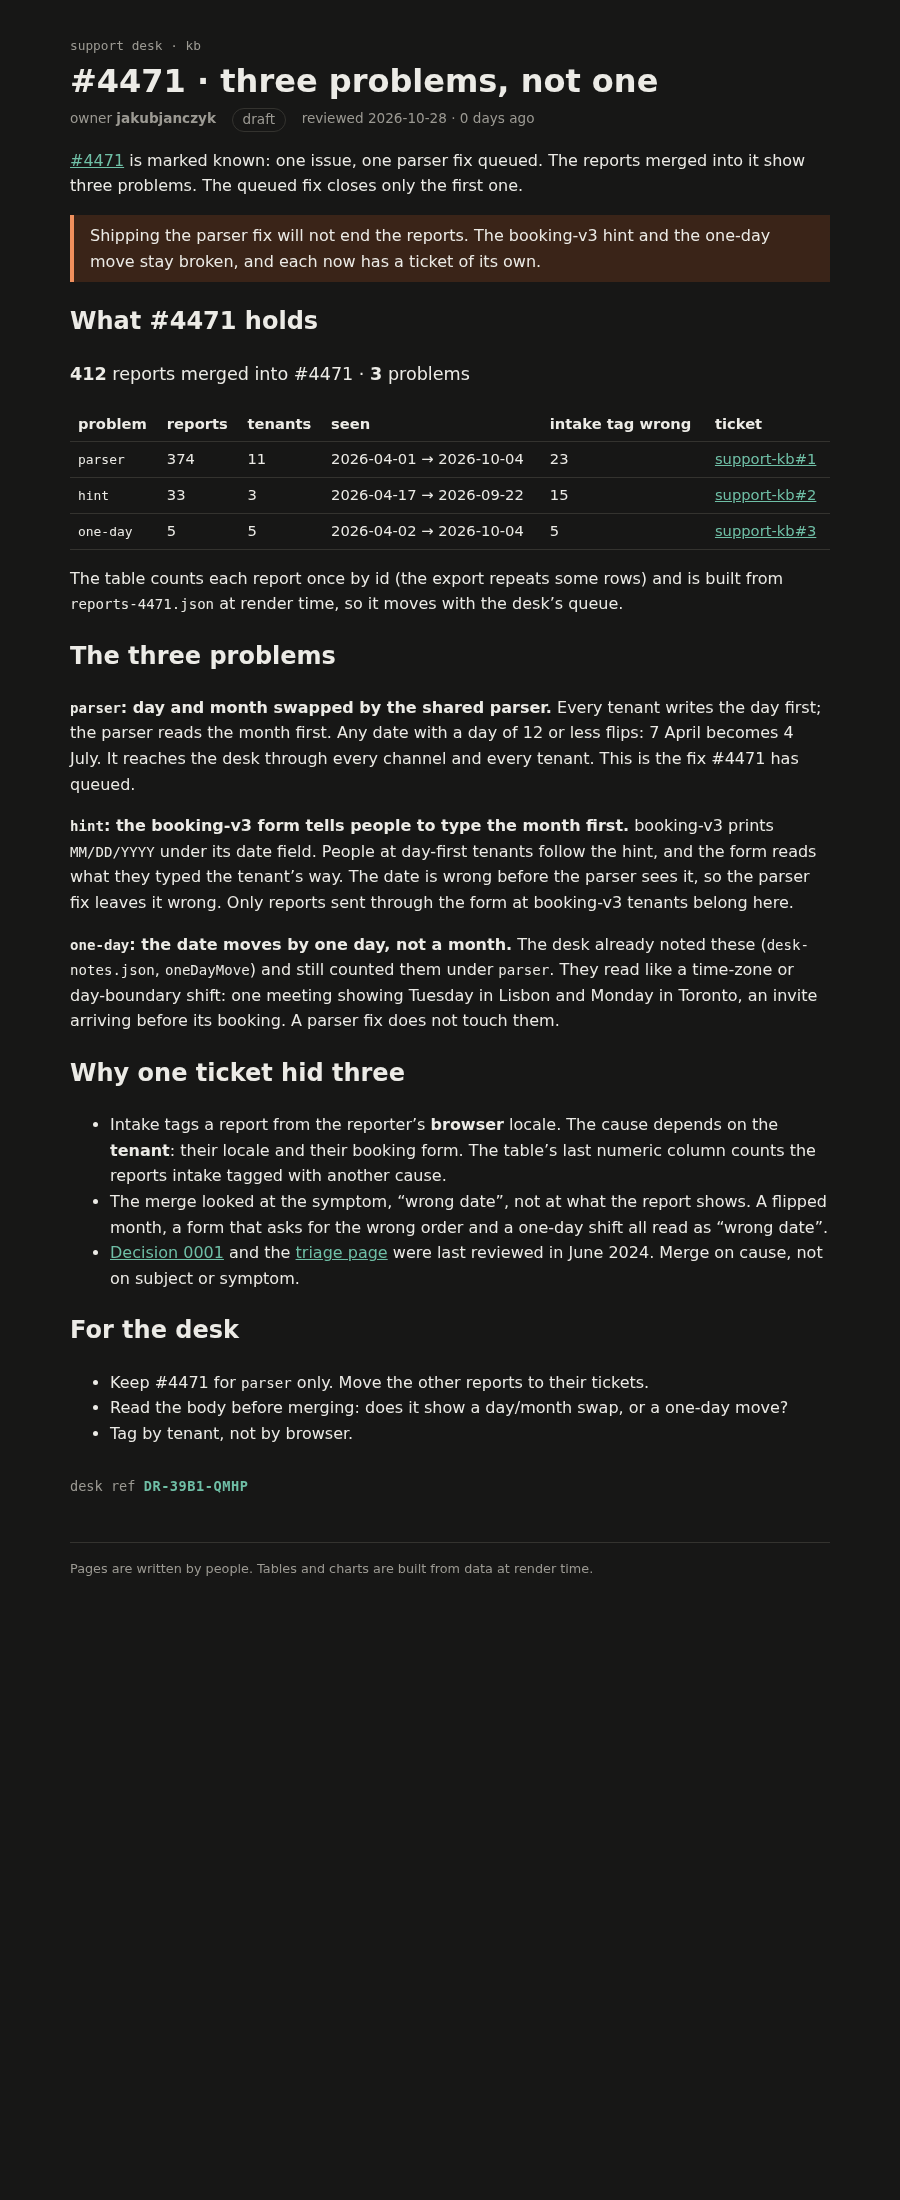
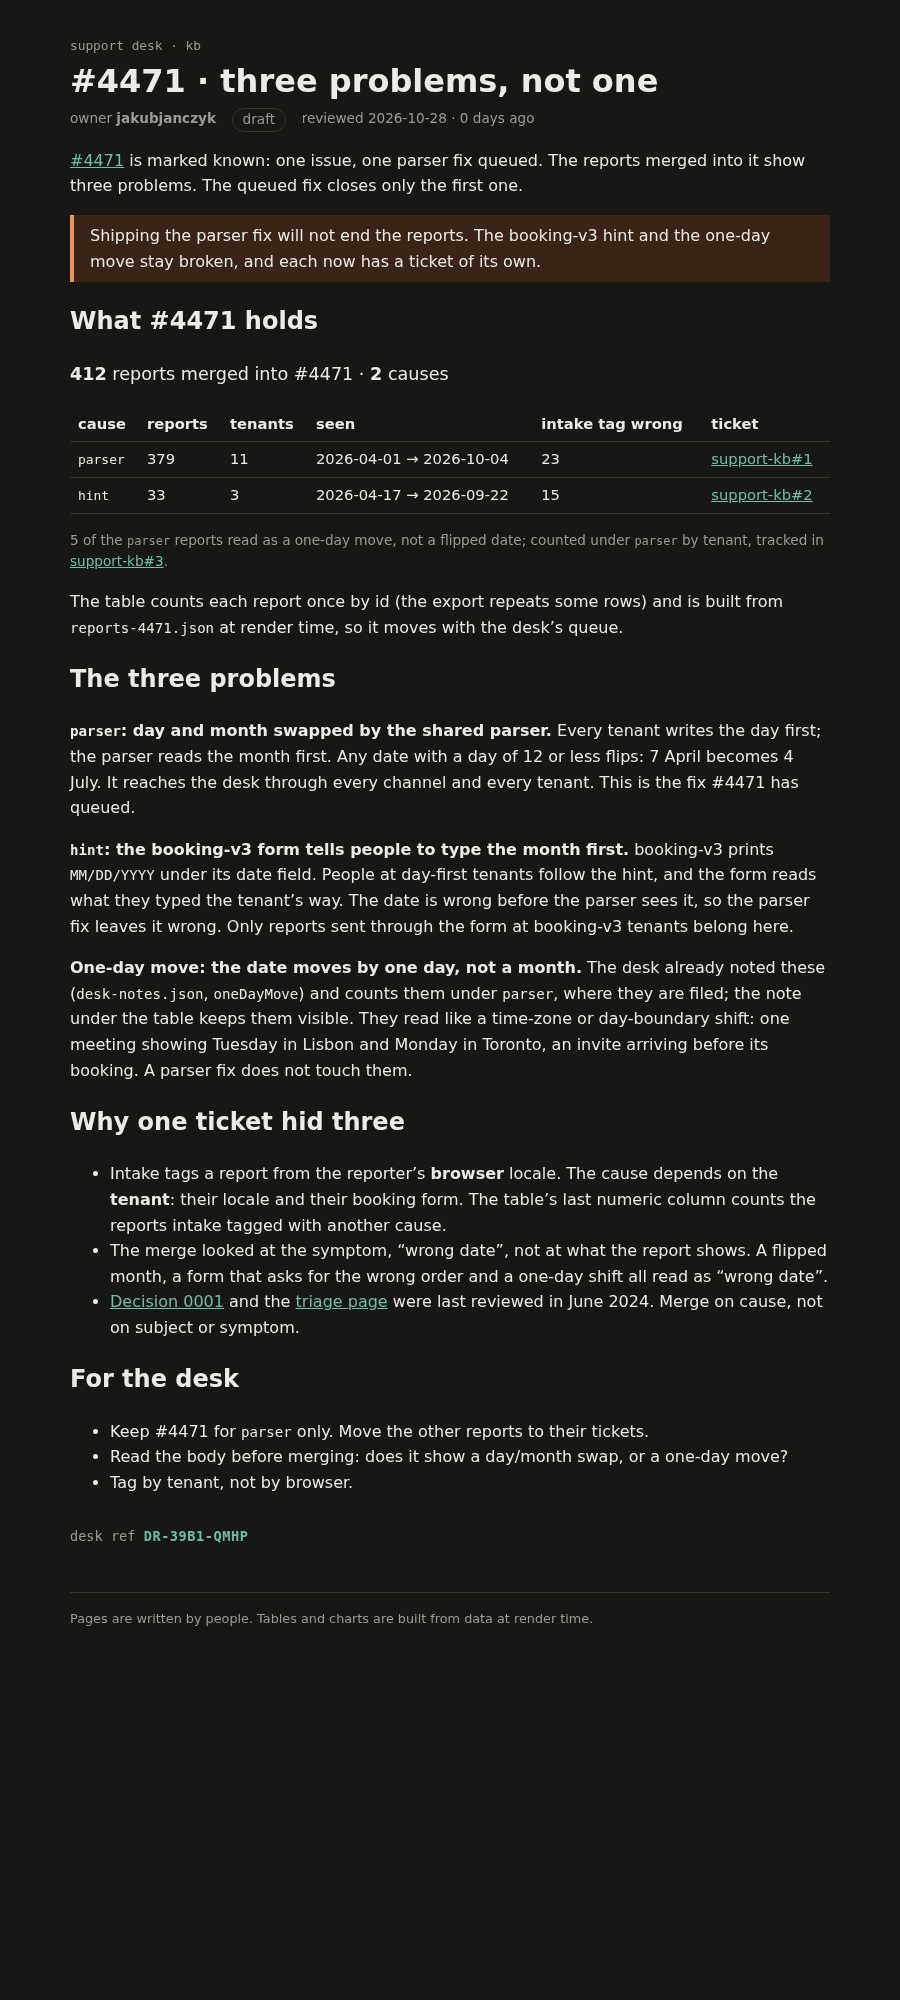
Count #4471 the desk's way on the kb page
ProblemTable now groups by causes.ts like the desk's CauseTable: parser 379,
hint 33. The 5 one-day reports stay under parser as a note linking #3.

Changed region(s): [[0.0622, 0.031, 0.9333, 0.744]]

diff --git a/src/lib/kb/ProblemTable.svelte b/src/lib/kb/ProblemTable.svelte
@@ -3,11 +3,11 @@
   import notes from '#lib/data/desk-notes.json';
   import { type Report } from '#lib/kb/causes';
   import { tenantOf } from '#lib/kb/locales';
-  import { groupByProblem, mergedInto, type Problem } from '#lib/kb/problems';
+  import { groupByProblem, mergedInto } from '#lib/kb/problems';
 
-  // tickets: problem → the ticket that now owns it, e.g. { parser: { label: 'support-kb#1', href: '…' } }
-  let { ticket, tickets }: { ticket: number; tickets: Partial<Record<Problem, { label: string; href: string }>> } =
-    $props();
+  type Link = { label: string; href: string };
+  // tickets: cause → the ticket that now owns it; oneDay: the ticket for the one-day move.
+  let { ticket, tickets, oneDay }: { ticket: number; tickets: Record<string, Link>; oneDay?: Link } = $props();
 
   const merged = $derived(mergedInto(reports as Report[], ticket));
   const groups = $derived(groupByProblem(merged, tenantOf, notes.oneDayMove));
@@ -16,19 +16,19 @@
 <p class="sum">
   <strong>{merged.length}</strong> reports merged into #{ticket} ·
   <strong>{groups.length}</strong>
-  {groups.length === 1 ? 'problem' : 'problems'}
+  {groups.length === 1 ? 'cause' : 'causes'}
 </p>
 
 <table>
   <thead>
-    <tr><th>problem</th><th>reports</th><th>tenants</th><th>seen</th><th>intake tag wrong</th><th>ticket</th></tr>
+    <tr><th>cause</th><th>reports</th><th>tenants</th><th>seen</th><th>intake tag wrong</th><th>ticket</th></tr>
   </thead>
   <tbody>
-    {#each groups as g (g.problem)}
-      {@const t = tickets[g.problem]}
+    {#each groups as g (g.cause)}
+      {@const t = tickets[g.cause]}
       <tr class:open={!t}>
-        <td><code>{g.problem}</code></td>
-        <td>{g.count}</td>
+        <td><code>{g.cause}</code></td>
+        <td>{g.reports.length}</td>
         <td>{g.tenants}</td>
         <td>{g.firstSeen} → {g.lastSeen}</td>
         <td>{g.mistagged}</td>
@@ -38,8 +38,18 @@
   </tbody>
 </table>
 
+{#each groups as g (g.cause)}
+  {#if g.oneDay}
+    <p class="note">
+      {g.oneDay} of the <code>{g.cause}</code> reports read as a one-day move, not a flipped date; counted under
+      <code>{g.cause}</code> by tenant{#if oneDay}, tracked in <a href={oneDay.href}>{oneDay.label}</a>{/if}.
+    </p>
+  {/if}
+{/each}
+
 <style>
   .sum { font-size: 1.1rem; }
+  .note { color: var(--muted); font-size: 0.85em; }
   .open td { background: var(--warn-bg); }
   .open td:last-child { color: var(--warn); font-weight: 600; }
 </style>

diff --git a/src/lib/kb/problems.ts b/src/lib/kb/problems.ts
@@ -1,23 +1,13 @@
-// The problems inside a merged ticket. causes.ts says which cause a report's tenant points to;
-// a report the desk read as a one-day move (desk-notes.json) is not a flipped date at all,
-// so it is its own problem whatever its tenant says.
-import { causeOf, uniqueById, type Report, type Tenant } from '#lib/kb/causes';
+// The problems inside a merged ticket, counted the way the desk counts (causes.ts): every report
+// under the cause its tenant points to. Reports the desk read as a one-day move (desk-notes.json)
+// stay counted where they are filed; they are a problem of their own, footnoted under that cause.
+import { groupByCause, readAs, uniqueById, type CauseGroup, type Report, type Tenant } from '#lib/kb/causes';
 
-export type Problem = 'parser' | 'hint' | 'one-day' | 'unplaced';
-
-export function problemOf(r: Report, t: Tenant | undefined, oneDayMove: readonly string[]): Problem {
-  if (oneDayMove.includes(r.id)) return 'one-day';
-  return causeOf(r, t) ?? 'unplaced';
-}
-
-export type ProblemGroup = {
-  problem: Problem;
-  count: number;
-  tenants: number;
-  // Reports intake tagged with a cause other than this problem.
+export type ProblemGroup = CauseGroup & {
+  // Reports intake tagged with another cause.
   mistagged: number;
-  firstSeen: string;
-  lastSeen: string;
+  // Of these, read by the desk as a one-day move.
+  oneDay: number;
 };
 
 export function mergedInto(reports: Report[], ticket: number): Report[] {
@@ -29,22 +19,9 @@ export function groupByProblem(
   tenantOf: (r: Report) => Tenant | undefined,
   oneDayMove: readonly string[],
 ): ProblemGroup[] {
-  const byProblem = new Map<Problem, Report[]>();
-  for (const r of reports) {
-    const p = problemOf(r, tenantOf(r), oneDayMove);
-    byProblem.set(p, [...(byProblem.get(p) ?? []), r]);
-  }
-  return [...byProblem.entries()]
-    .map(([problem, rs]) => {
-      const days = rs.map((r) => r.receivedAt.slice(0, 10)).sort();
-      return {
-        problem,
-        count: rs.length,
-        tenants: new Set(rs.map((r) => r.tenant)).size,
-        mistagged: rs.filter((r) => r.meta.intakeTag !== problem).length,
-        firstSeen: days[0],
-        lastSeen: days[days.length - 1],
-      };
-    })
-    .sort((a, b) => b.count - a.count);
+  return groupByCause(reports, tenantOf).map((g) => ({
+    ...g,
+    mistagged: g.reports.filter((r) => r.meta.intakeTag !== g.cause).length,
+    oneDay: readAs(g, oneDayMove),
+  }));
 }
